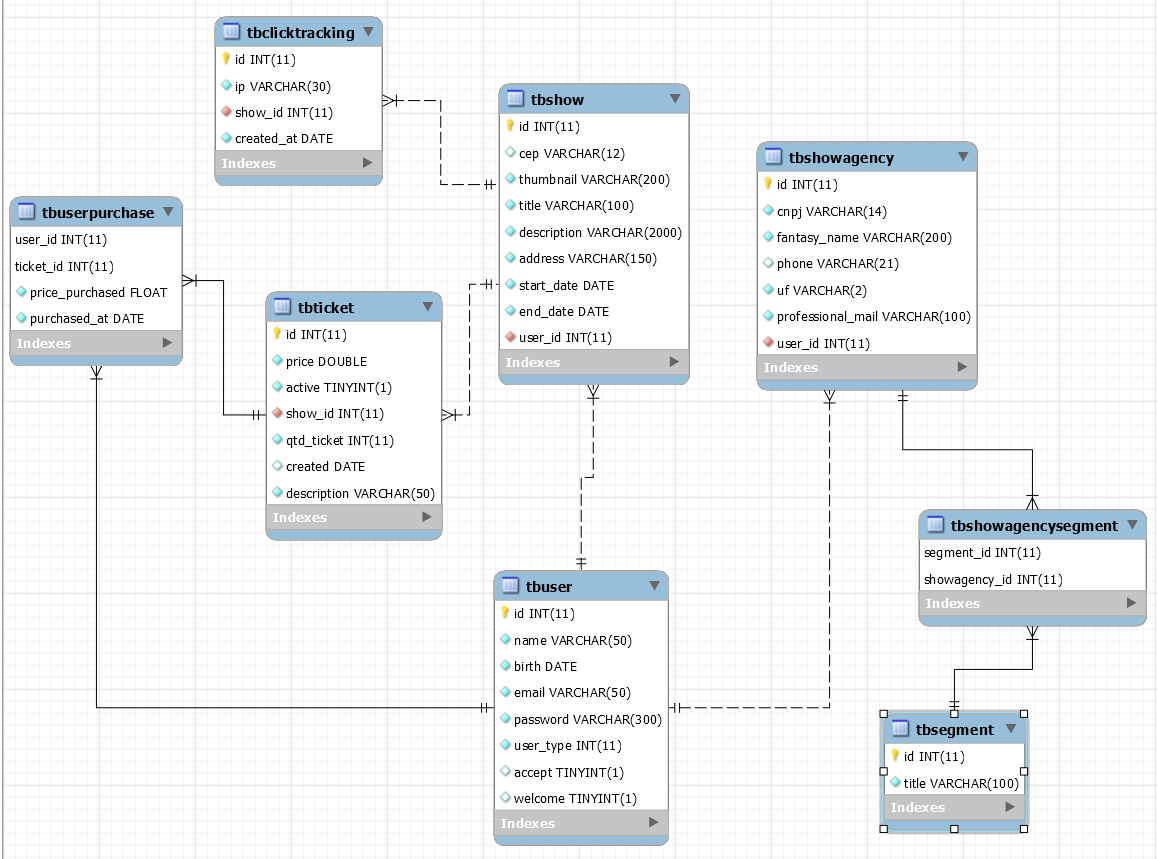
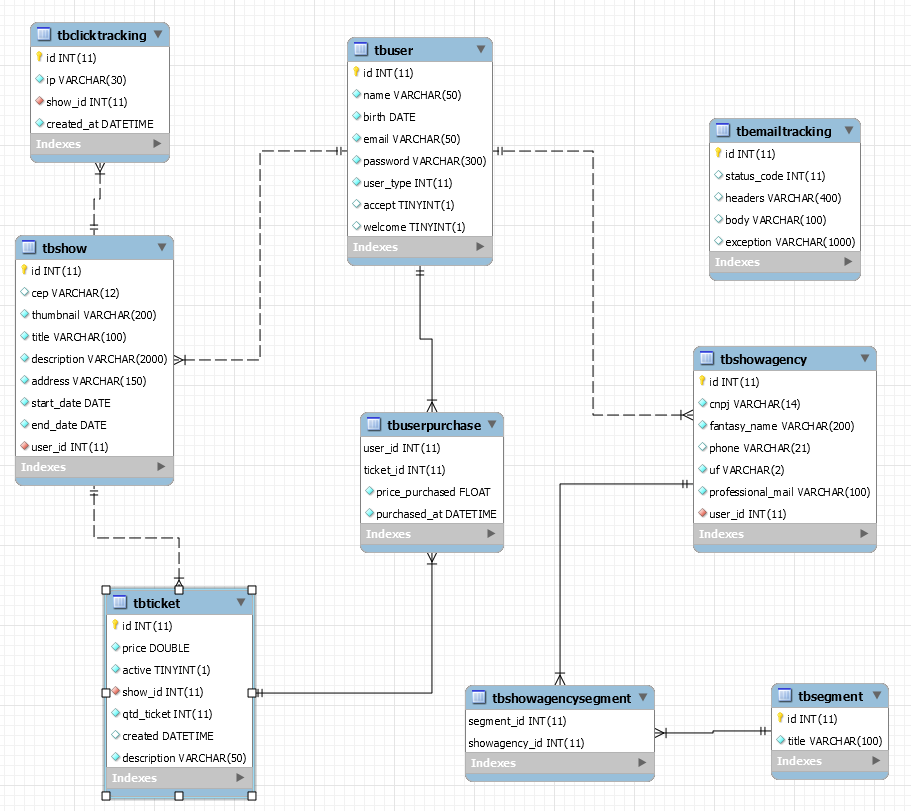
Fix duplicate email and add feature to send email reminder

diff --git a/template/email.html b/template/email.html
@@ -1,0 +1,203 @@
+<!DOCTYPE html PUBLIC "-//W3C//DTD XHTML 1.0 Strict//EN" "http://www.w3.org/TR/xhtml1/DTD/xhtml1-strict.dtd">
+<html xmlns="http://www.w3.org/1999/xhtml">
+
+<head>
+    <meta http-equiv="Content-Type" content="text/html; charset=utf-8" />
+    <meta name="viewport" content="width=device-width" />
+
+    <!-- For development, pass document through inliner -->
+
+    <style type="text/css">
+        * {
+            margin: 0;
+            padding: 0;
+            font-size: 100%;
+            font-family: 'Avenir Next', "Helvetica Neue", "Helvetica", Helvetica, Arial, sans-serif;
+            line-height: 1.65;
+        }
+
+        img {
+            max-width: 100%;
+            margin: 0 auto;
+            display: block;
+        }
+
+        body,
+        .body-wrap {
+            width: 100% !important;
+            height: 100%;
+            background: #f8f8f8;
+        }
+
+        a {
+            color: #71bc37;
+            text-decoration: none;
+        }
+
+        a:hover {
+            text-decoration: underline;
+        }
+
+        .text-center {
+            text-align: center;
+        }
+
+        .text-right {
+            text-align: right;
+        }
+
+        .text-left {
+            text-align: left;
+        }
+
+        .button {
+            display: inline-block;
+            color: white;
+            background: #71bc37;
+            border: solid #71bc37;
+            border-width: 10px 20px 8px;
+            font-weight: bold;
+            border-radius: 4px;
+        }
+
+        .button:hover {
+            text-decoration: none;
+        }
+
+        h1,
+        h2,
+        h3,
+        h4,
+        h5,
+        h6 {
+            margin-bottom: 20px;
+            line-height: 1.25;
+        }
+
+        h1 {
+            font-size: 32px;
+        }
+
+        h2 {
+            font-size: 28px;
+        }
+
+        h3 {
+            font-size: 24px;
+        }
+
+        h4 {
+            font-size: 20px;
+        }
+
+        h5 {
+            font-size: 16px;
+        }
+
+        p,
+        ul,
+        ol {
+            font-size: 16px;
+            font-weight: normal;
+            margin-bottom: 20px;
+        }
+
+        .container {
+            display: block !important;
+            clear: both !important;
+            margin: 0 auto !important;
+            max-width: 580px !important;
+        }
+
+        .container table {
+            width: 100% !important;
+            border-collapse: collapse;
+        }
+
+        .container .masthead {
+            padding: 80px 0;
+            background: #71bc37;
+            color: white;
+        }
+
+        .container .masthead h1 {
+            margin: 0 auto !important;
+            max-width: 90%;
+            text-transform: uppercase;
+        }
+
+        .container .content {
+            background: white;
+            padding: 30px 35px;
+        }
+
+        .container .content.footer {
+            background: none;
+        }
+
+        .container .content.footer p {
+            margin-bottom: 0;
+            color: #888;
+            text-align: center;
+            font-size: 14px;
+        }
+
+        .container .content.footer a {
+            color: #888;
+            text-decoration: none;
+            font-weight: bold;
+        }
+
+        .container .content.footer a:hover {
+            text-decoration: underline;
+        }
+    </style>
+</head>
+
+<body>
+    <table class="body-wrap">
+        <tr>
+            <td class="container">
+
+                <!-- Message start -->
+                <table>
+                    <tr>
+                        <td align="center" class="masthead">
+
+                            <h1>Um novo evento está começando...</h1>
+
+                        </td>
+                    </tr>
+                    <tr>
+                        <td class="content">
+
+                            <h2>Olá #{USER_NAME},</h2>
+
+                            <p>#{BODY}</p>
+                           
+                            <p><em>– Sistema de Vendas</em></p>
+
+                        </td>
+                    </tr>
+                </table>
+
+            </td>
+        </tr>
+        <tr>
+            <td class="container">
+                <!-- Message start -->
+                <table>
+                    <tr>
+                        <td class="content footer" align="center">
+                            <p>Sent by <a href="#">Teste</a></p>
+                            <p><a href="#">Unsubscribe</a></p>
+                        </td>
+                    </tr>
+                </table>
+
+            </td>
+        </tr>
+    </table>
+</body>
+
+</html>

diff --git a/cron.php b/cron.php
@@ -1,0 +1,40 @@
+<?php
+
+use App\Datasource;
+use App\Model\EmailTrackingModel;
+use SendGrid\Mail\Mail;
+
+require('./vendor/autoload.php');
+
+define('API_KEY', '');
+
+$datasource = new Datasource();
+$trackingModel = new EmailTrackingModel($datasource);
+$userReminders = $trackingModel->getUsersReminders();
+
+foreach ($userReminders as $userReminder) {
+    $emailBody = file_get_contents("./template/email.html");
+    $emailBody = str_replace('#{USER_NAME}', $userReminder['name'], $emailBody);
+    $content = "Gostaria de avisar que o evento <b>" . strtoupper($userReminder['title']) . "</b> está próximo de começar!";
+    $emailBody = str_replace('#{BODY}', $content, $emailBody);
+    $email = new Mail();
+    $email->setFrom("felipexavier20015@gmail.com", "Example User");
+    $email->setSubject("Sending with Twilio SendGrid is Fun");
+    $email->addTo($userReminder['email'], "Example User");
+    $email->addContent(
+        "text/html", $emailBody
+    );
+    $sendgrid = new \SendGrid(API_KEY);
+    $logResponse = ['status_code' => 0, 'headers' => '', 'body' => '', 'exception' => ''];
+    try {
+        $response = $sendgrid->send($email);
+        $logResponse['status_code'] = $response->statusCode();
+        $logResponse['headers'] = json_encode($response->headers());
+        $logResponse['body'] = $response->body();
+    } catch (Exception $e) {
+        $logResponse['exception'] = $e->getMessage();
+    }
+    $trackingModel->saveTrackingLog(array_values($logResponse));
+}
+
+

diff --git a/public/logged/show_form.php b/public/logged/show_form.php
@@ -126,7 +126,6 @@ btn.addEventListener('click', (e) => {
     
     const ticketsRefs = [...document.querySelectorAll("div.ticket-card")];
     const tickets = [];
-    console.log(ticketsRefs);
     ticketsRefs.forEach(ticket => {
         const descTicket = ticket.querySelector("div.form-group > input[name='desc_ticket']").value || "";
         const priceTicket = ticket.querySelector("div.form-group > input[name='price_ticket']").value || "";
@@ -139,16 +138,13 @@ btn.addEventListener('click', (e) => {
     form.append("json", JSON.stringify(requestData));
     form.append("thumbnail", thumbnail);
 
-    console.log(form);
 
     fetch("/create-show", {
         method: 'POST',
         body: form
     }).then(res => {
-        console.log(res.status)
         if(res.status != 200) {
             const box = document.getElementById("message");
-            console.log(box);
             box.insertAdjacentHTML("afterbegin", `<div class='alert alert-danger'><b>Campos Inválidos</b></div>`);
             window.scrollTo(0,0);
         }else {

diff --git a/src/model/EmailTrackingModel.php b/src/model/EmailTrackingModel.php
@@ -1,0 +1,23 @@
+<?php
+
+namespace App\Model;
+
+use Core\AbstractDAO;
+
+class EmailTrackingModel extends AbstractDAO {
+
+    public function saveTrackingLog($data) {
+        $sql = "INSERT into tbemailtracking (status_code, headers, body, exception) VALUES (?, ?, ?, ?)";
+        $this->raw($sql, $data);
+    }
+
+    public function getUsersReminders() {
+        $sql = "select distinct t4.email, t4.name, t3.title from tbuserpurchase t1
+            inner join tbticket t2 on t2.id = t1.ticket_id
+            inner join tbshow t3 on t2.show_id = t3.id
+            inner join tbuser t4 on t1.user_id = t4.id
+            where DATE_SUB(t3.start_date , INTERVAL 1 DAY) = DATE(NOW());";
+        return $this->raw($sql)->fetch();
+    }
+
+}

diff --git a/src/controller/AuthController.php b/src/controller/AuthController.php
@@ -42,7 +42,11 @@ class AuthController extends Controller
             $schema['result']['accept'] = false;
             $schema['result']['welcome'] = false;
         }
-        $this->userModel->create($schema['result']);
+        try{
+            $this->userModel->create($schema['result']);
+        }catch(\Exception $e) {
+            $this->view->render('login/create_login', ['message' => 'E-mail ou senha inválido']);
+        }
         $this->view->redirect('login');
     }
 

diff --git a/public/layout/menu.php b/public/layout/menu.php
@@ -63,7 +63,7 @@ body {
         <ul class="navbar-nav mr-auto sidenav" id="navAccordion">
 
             <?php if(isset($_SESSION['user_type']) && $_SESSION['user_type'] == 2) {
-                echo '<li class="nav-item"><a class="nav-link" href="/approvals">Aprovações</a></li>';
+                echo '<li class="nav-item"><a class="nav-link" href="/approve">Aprovações</a></li>';
             } ?>
             
             <?php 
